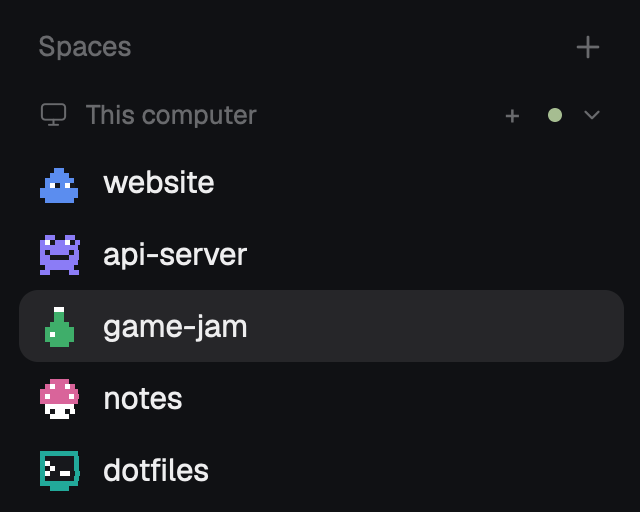
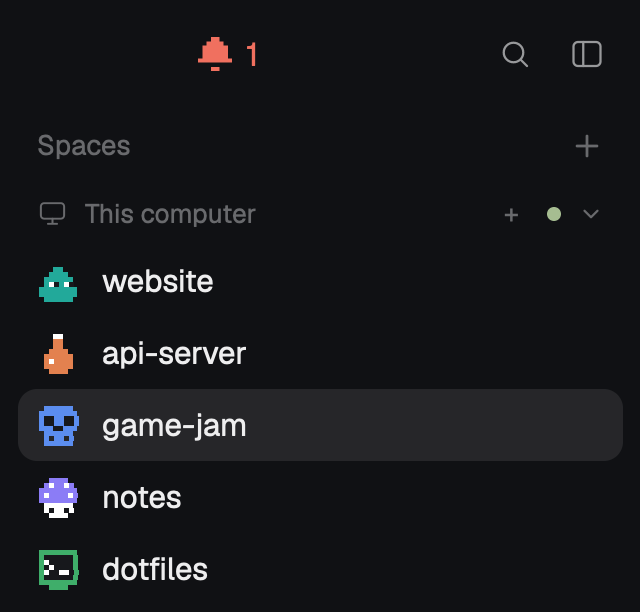
Header shows only agents waiting for you (pixel-chrome); README and RECIPE rewritten

diff --git a/mods/pixel-chrome/main.js b/mods/pixel-chrome/main.js
@@ -1,0 +1,73 @@
+// pixel-chrome: Herdr's shipped `workspace-chrome` mod (0.1.11, Apache-2.0), changed so the
+// sidebar's header shows, in place of Herdr's logo and name, only whether agents wait for you
+// (a pixel bell and how many), and its search button opens pixel-picker. The footer is Herdr's.
+// Glyphs search/sidebar/settings/plus are Lucide (ISC, LICENSE-Lucide.txt); bell.svg is new.
+
+import { View, div, image, svg } from "gpui-kit";
+import { h_flex, v_flex } from "gpui-base";
+import { theme, run, props, window, shared, setShared, updates, layout, agents } from "herdr";
+
+function find(node, id) {
+  if (node?.id === id) return node;
+  for (const child of node?.children ?? []) {
+    const found = find(child, id);
+    if (found) return found;
+  }
+  return null;
+}
+
+// The sidebar's rail goes by its width, not a flag: dragging its edge narrows it too.
+const narrow = () => (find(layout(), "sidebar")?.size?.px ?? Infinity) < 160;
+
+// To the rail (on macOS wide enough for the traffic lights), or back to the width it had.
+function toggleSidebar() {
+  const width = find(layout(), "sidebar")?.size?.px;
+  if (!narrow()) setShared("sidebar.width", width);
+  // Mods edited before the rail went by width still read the flag.
+  setShared("sidebar.collapsed", !narrow());
+  run("layout.resize", { id: "sidebar", px: narrow() ? (shared("sidebar.width") ?? 268) : window()?.platform === "macos" ? 76 : 44 });
+}
+
+export default class WorkspaceChrome extends View {
+  button(id, label, action) {
+    const t = theme();
+    return div().id(id).size(26).flex_none().flex().items_center().justify_center().rounded(6).text_color(t.muted).hover(s => s.bg(t.hover).text_color(t.foreground))
+      .on_mouse_down("left", (_e, cx) => cx.stop_propagation()).on_click(action).child(label);
+  }
+  waiting(t) {
+    const list = agents().filter(a => a.status === "blocked" || a.status === "done");
+    if (!list.length) return div();
+    const rank = a => (a.status === "blocked" ? 0 : 1);
+    const first = [...list].sort((a, b) => rank(a) - rank(b) || b.seq - a.seq)[0];
+    const tone = list.some(a => a.status === "blocked") ? t.blocked : t.done;
+    return h_flex().id("waiting").h(24).px(7).gap(6).flex_none().items_center().rounded(6).cursor_pointer()
+      .text_color(tone).hover(s => s.bg(t.hover))
+      .on_mouse_down("left", (_e, cx) => cx.stop_propagation())
+      .on_click(() => run("pane.focus", { pane: first.pane }))
+      .child(svg("mods/pixel-chrome/bell.svg").size(14).flex_none())
+      .child(div().font_semibold().child(String(list.length)));
+  }
+  render() {
+    const t = theme();
+    const collapsed = narrow();
+    if (props()?.footer) {
+      const row = (id, icon, label, dim, action) => h_flex().id(id).h(28).px(8).gap(9).items_center().rounded(8)
+        .text_color(dim ? t.dim : t.muted).hover(s => s.bg(t.hover).text_color(t.foreground)).cursor_pointer()
+        .on_click(action).child(svg(`mods/pixel-chrome/${icon}.svg`).size(14))
+        .when(!collapsed, el => el.child(label));
+      return v_flex().size_full().bg(t.chrome).border_t(1).border_color(t.border).px(8).pt(4).pb(8).text_size(13)
+        .child(row("settings", "settings", "Settings", false, () => run("app.settings"))
+          .when(Boolean(updates().app.ready), el => el.child(div().size(6).rounded_full().bg(t.accent))))
+        .child(row("machine", "plus", "Add machine", true, () => run("mod.open", { name: "machine-add" })));
+    }
+    return h_flex().size_full().bg(t.chrome).pl(collapsed ? 6 : 14).pr(10).gap(4).items_center().text_size(13.5)
+      .when(window()?.platform === "macos" && !collapsed, el => el.pl(76))
+      // pixel-chrome: in place of Herdr's logo and name, only whether agents wait for you
+      // (blocked, or done while you weren't looking): a pixel bell and how many, nothing when
+      // none. A click shows the most urgent one. Search opens pixel-picker.
+      .when(!collapsed, el => el.child(h_flex().flex_1().items_center().child(this.waiting(t))))
+      .when(!collapsed, el => el.child(this.button("search", svg("mods/pixel-chrome/search.svg").size(15), () => run("mod.open", { name: "pixel-picker" }))))
+      // On the macOS rail the traffic lights fill the row; the agents list's » unfolds it.
+      .when(!(collapsed && window()?.platform === "macos"), el => el.child(this.button("sidebar-toggle", svg("mods/pixel-chrome/sidebar.svg").size(15), toggleSidebar)));
+  }
+}

diff --git a/RECIPE.md b/RECIPE.md
@@ -1,76 +1,95 @@
 # Pixel Spaces
 
-Herdr's spaces list with pixel-art avatars. Each space wears a small 8×8 sprite, a slime, a ghost,
-a frog, drawn in the space's own color where Herdr shows a tile with the first letter. Everything
-else about the list is Herdr's.
+Herdr's sidebar in pixel art. Each space wears a small 8×8 sprite in its own color where Herdr
+shows a tile with the first letter, the Go to picker shows the same sprites, and the header keeps
+only a pixel bell that counts the agents waiting for you. Everything else is Herdr's.
 
 ![Pixel Spaces](preview.png)
 
 ## What you see
 
-- The spaces sidebar exactly as in Herdr's `main` layout: a "Spaces" header with a `+`, a group
-  header per machine, one row per space (30px, 28px for worktree rows), the space's name, then its
-  repo, branch and ahead/behind where unusual.
-- In place of the 18px rounded tile with a white capital letter: an 18px box holding a 16×16
-  sprite, 8×8 sprite pixels at 2px each, no tile behind it.
-- Sprite colors: `x` pixels in the space's avatar color (Herdr's `MARK` table: `ansi6` #22a99a,
-  `ansi3` #e3814f, `ansi4` #5b8def, `ansi5` #8b7cf6, `ansi2` #3fae6a, `ansi1` #d9649a), `o` pixels
-  #ffffff, `k` pixels #17181c, `.` clear.
+- **Header** (block `brand`, 46px): on macOS 76px left for the traffic lights, then, only when
+  agents wait, a 24px-high pill: a 14px pixel bell and the count in semibold 13.5px. Pill color is
+  the theme's `done` color when every waiting agent is done, its `blocked` color when any is
+  blocked. With nothing waiting the spot is empty. Herdr's logo and the word "Herdr" are gone.
+  Right of it, Herdr's search and sidebar buttons.
+- **Spaces list**: exactly as in Herdr's `main`: a "Spaces" header with `+`, a group header per
+  machine, one row per space (30px, 28px for worktree rows), the name, then repo, branch and
+  ahead/behind where unusual. In place of the 18px rounded tile with a white capital letter: an
+  18px box holding a 16×16 sprite, 8×8 sprite pixels at 2px each, no tile behind it.
+- Sprite colors: `x` pixels in the space's avatar color (a stored `#rrggbb`, or Herdr's `MARK`
+  table: `ansi6` #22a99a, `ansi3` #e3814f, `ansi4` #5b8def, `ansi5` #8b7cf6, `ansi2` #3fae6a,
+  `ansi1` #d9649a), `o` pixels #ffffff, `k` pixels #17181c, `.` clear.
 - 15 sprites: slime, ghost, cat, robot, mushroom, octopus, skull, heart, potion, frog, rocket,
   terminal (a `>_` prompt), coffee, bomb, star. All original drawings.
 - Worktree rows keep Herdr's branch icon and no sprite; the narrow rail keeps Herdr's number and
-  status glyph.
-- The Go to picker (`cmd-p`) shows the same sprite, same color, in each space's heading row in
-  place of the 18px letter tile.
+  status glyph and hides the bell.
+- **Go to picker** (`cmd-p` and the header's search button): each space's heading row shows its
+  sprite, same color, in place of the 18px letter tile.
 
 ## How it behaves
 
+- Waiting means an agent's status is `blocked` or `done` (finished while you weren't looking;
+  Herdr turns it `idle` once you look). The count is over every agent the window knows.
+- Clicking the bell runs `pane.focus` on the most urgent waiting agent: blocked before done, then
+  the highest `seq` (most recent change). The press doesn't reach the header behind it.
 - A space without a sprite gets the one used least among the shown spaces; ties are broken by a
-  hash of the space's name, so two new spaces rarely start alike. Once given, a sprite stays.
+  hash of the space's name. Once given, a sprite stays.
 - Option-click (Alt) on a sprite steps that space to the next sprite in the list, wrapping
-  around, and the click does not select the space. Any other click, right-click and drag behave
-  as in Herdr's list.
+  around, and the click does not select the space. Other clicks, right-click and drag behave as
+  in Herdr's list.
 - Sprites of spaces that are gone are dropped, as Herdr drops their colors.
-- When the mod sees no spaces at all (as under `herdr-app check`), it changes neither colors nor
+- When a mod sees no spaces at all (as under `herdr-app check`), it changes neither colors nor
   sprites.
 
 ## Built from
 
-- Layout `layouts/main-pixel.json`: Herdr's `main` (0.1.11), cloned with `layout.clone`, with the
-  block `id: "spaces"` set to `content.mod: "pixel-spaces"`.
-- Mod `mods/pixel-spaces/`: Herdr's `spaces` mod cloned with `mod.clone`. Changes in `main.js`:
-  the avatar `h_flex` in `row()` holds `sprite(name, fill, ...)` with an `on_mouse_down("left")`
-  that, when `e.modifiers.alt`, calls `cx.stop_propagation()` and writes the next name to shared
-  `space.sprites`; `render()` assigns sprites with `assign()` after the colors, and wraps both the
-  color and the sprite bookkeeping in `if (spaces().length)`.
+- Layout `layouts/main-pixel.json`: Herdr's `main` (0.1.11), cloned with `layout.clone`, with
+  block `brand` set to `content.mod: "pixel-chrome"` and block `spaces` to
+  `content.mod: "pixel-spaces"`. The footer block stays Herdr's `workspace-chrome`.
+- `mods/pixel-chrome/`: Herdr's `workspace-chrome` cloned with `mod.clone`. `render()`'s header
+  row has `waiting(t)` where the logo `image` and "Herdr" text were; `waiting` reads `agents()`,
+  filters `blocked`/`done`, and returns an empty `div` or the pill (`svg("mods/pixel-chrome/
+  bell.svg")` tinted by `text_color`, `on_mouse_down` stopping propagation, `on_click` →
+  `run("pane.focus", { pane })`). The search button runs `mod.open { name: "pixel-picker" }`. It
+  keeps only the glyphs it uses: `bell.svg` (new, 8×8 rects), Lucide `search`, `sidebar`,
+  `settings`, `plus`.
+- `mods/pixel-spaces/`: Herdr's `spaces` cloned. The avatar `h_flex` in `row()` holds
+  `sprite(name, fill, ...)` with an `on_mouse_down("left")` that, when `e.modifiers.alt`, calls
+  `cx.stop_propagation()` and writes the next name to shared `space.sprites`; `render()` assigns
+  sprites with `assign()` after the colors, both inside `if (spaces().length)`.
 - `sprites.js`: `SPRITES` (name to 8 strings of 8 chars), `NAMES`, `sprite()` (each row's runs of
   one character become one `div` of width `2 * run`, height 2), `assign()`.
-- Mod `mods/pixel-picker/`: Herdr's `picker` cloned with `mod.clone`. The heading row's avatar
-  holds `sprite(shared("space.sprites")[id], spaceColor(t, w), ...)`; `spaceColors()` returns the
-  stored colors untouched when `spaces()` is empty. It only reads `space.sprites`. Its own copy of
+- `mods/pixel-picker/`: Herdr's `picker` cloned. The heading row's avatar holds
+  `sprite(shared("space.sprites")[id], spaceColor(t, w), ...)`; `spaceColors()` returns the stored
+  colors untouched when `spaces()` is empty. It only reads `space.sprites`. Its own copy of
   `sprites.js`. `keys.json`: `"cmd-p": "mod.open:pixel-picker"` in `global`.
-- `herdr` functions: `spaces`, `shared`, `setShared`, `theme`, plus everything Herdr's mod uses.
-  No programs, no network, no files outside the mod.
+- `herdr` functions: `agents`, `spaces`, `shared`, `setShared`, `theme`, `run`, plus everything
+  Herdr's mods use. No programs, no network, no files outside the mods.
 
 ## Watch out
 
-- `herdr-app check` runs the mod with no spaces against the real shared state. Herdr's own
+- `herdr-app check` runs a mod with no spaces against the real shared state. Herdr's own
   bookkeeping drops every entry whose space isn't listed, so a check run would wipe
-  `space.colors` and `space.sprites`. Keep the `if (spaces().length)` guard.
+  `space.colors` and `space.sprites`. Keep the `spaces().length` guards in both mods.
+- Herdr caches images by path: a changed SVG under the same name kept showing the old picture.
+  Save a changed glyph under a new name.
 - Option is Alt only where Herdr sends it as Alt (`option_as_alt`, "auto" on US/ABC layouts). On
-  other keyboard layouts, set `"option_as_alt": "on"` in settings.json for option-click.
+  other keyboard layouts set `"option_as_alt": "on"` in settings.json for option-click.
 - Herdr doesn't watch a symlinked mod folder; copy it rather than link it.
 - A mod can't import from another mod's folder (`../pixel-spaces/sprites.js` is refused as
   outside the mod), so each mod carries `sprites.js`; keep the copies identical.
-- The sidebar's search button (shipped `workspace-chrome`) opens the shipped `picker`, not this
-  one.
 - Sprites must be exactly 8×8 and use only `.`, `x`, `o`, `k`.
+- To see the bell without a real agent waiting, a terminal can report a status itself:
+  `printf '\033]7501;state=blocked:app=demo\007'`.
 
 ## Done when
 
+- The header shows nothing while no agent is blocked or done, and a bell with the right count
+  otherwise, in the blocked color when any is blocked; clicking it shows that agent.
 - Every non-worktree space row shows a sprite in its color and no letter tile.
 - A new space gets a sprite not yet used by the shown spaces (while fewer than 15 spaces show).
 - Option-click on a sprite changes it to the next one and leaves the selected space as it was.
-- `herdr-app check mods/pixel-spaces` and `herdr-app check mods/pixel-picker` pass and leave
-  `space.colors` and `space.sprites` in `shared.json` unchanged.
-- `cmd-p` opens the picker with each space's sprite beside its name, matching the sidebar.
+- `cmd-p` and the search button open the picker with each space's sprite beside its name.
+- `herdr-app check` passes for all three mods and leaves `space.colors` and `space.sprites` in
+  `shared.json` unchanged.

diff --git a/README.md b/README.md
@@ -1,21 +1,29 @@
 # Herdr Pixel Spaces
 
-Pixel-art avatars for the spaces list of the [Herdr](https://herdr.dev) desktop app. Instead of a
-colored tile with the space's first letter, each space gets a little 8×8 sprite in its color: a
-slime, a ghost, a frog, a potion...
+A pixel-art sidebar for the [Herdr](https://herdr.dev) desktop app. Each space wears a little 8×8
+sprite in its color instead of a letter tile, the Go to picker shows the same sprites, and the
+sidebar's header drops Herdr's logo for the one thing worth seeing up there: whether an agent is
+waiting for you.
 
-![Pixel sprites in the spaces list](preview.png)
+![The sidebar: a red bell for one agent waiting, and pixel sprites for each space](preview.png)
 
-- **15 sprites.** slime, ghost, cat, robot, mushroom, octopus, skull, heart, potion, frog, rocket,
-  terminal, coffee, bomb and star. All drawn for this mod, not taken from any game.
-- **One per space, kept.** A new space gets the sprite used least so far, and keeps it.
-- **Your pick.** Option-click (Alt-click) a sprite to step to the next one. A plain click still
-  opens the space.
-- **Still Herdr's spaces list.** It's Herdr's own `spaces` mod with only the avatar changed:
-  colors, worktrees under their repo, branch and ahead/behind, a group per machine, the
-  right-click menu and drag to reorder all work as before.
-- **In the Go to picker too.** `pixel-picker` is Herdr's `picker` (`cmd-p`) with the same
-  sprites next to each space's name.
+## What you get
+
+- **Pixel sprites for spaces.** 15 sprites: slime, ghost, cat, robot, mushroom, octopus, skull,
+  heart, potion, frog, rocket, terminal, coffee, bomb and star, all drawn for this repo. A new
+  space gets the sprite used least so far and keeps it. **Option-click** (Alt-click) a sprite to
+  step to the next one; a plain click still opens the space.
+- **The same sprites in the Go to picker** (`cmd-p`, and the sidebar's search button), next to
+  each space's name.
+- **A header that only says who's waiting.** Where Herdr shows its logo and name, a pixel bell
+  and a count appear when agents wait for you: blocked on a question or a permission, or done
+  while you weren't looking. Blue when they're only done, the blocked color when any is blocked,
+  nothing at all when none wait. Click it to go to the most urgent one (blocked first, then the
+  most recently finished).
+- **Still Herdr's sidebar.** These are Herdr's own `spaces`, `picker` and `workspace-chrome` mods
+  with only those parts changed: space colors, worktrees under their repo, branch and
+  ahead/behind, a group per machine, the right-click menu, drag to reorder, picker search and
+  keys all work as before.
 
 ![All 15 sprites](sprites.png)
 
@@ -25,28 +33,32 @@ Ask your agent: "add https://github.com/pilmokim/herdr-pixel-spaces to my Herdr 
 
 ```sh
 git clone https://github.com/pilmokim/herdr-pixel-spaces.git
-cp -R herdr-pixel-spaces/mods/pixel-spaces herdr-pixel-spaces/mods/pixel-picker ~/.config/herdr-app/mods/
-cp herdr-pixel-spaces/layouts/main-pixel.json ~/.config/herdr-app/layouts/
+cd herdr-pixel-spaces
+cp -R mods/pixel-spaces mods/pixel-picker mods/pixel-chrome ~/.config/herdr-app/mods/
+cp layouts/main-pixel.json ~/.config/herdr-app/layouts/
 herdr-app do layout.switch '{"name":"main-pixel"}'
 ```
 
-`main-pixel` is Herdr's own `main` layout (0.1.11) with the spaces list swapped for this one.
-`cmd-shift-l` switches back to any other layout.
+`main-pixel` is Herdr's own `main` layout (0.1.11) with the header and the spaces list swapped
+for these mods. `cmd-shift-l` switches back to any other layout.
 
-For the picker, point `cmd-p` at it in `~/.config/herdr-app/keys.json` (this repo's `keys.json`
-has the line to merge):
+Then point `cmd-p` at the pixel picker in `~/.config/herdr-app/keys.json` (this repo's
+`keys.json` has the line to merge):
 
 ```json
 { "global": { "cmd-p": "mod.open:pixel-picker" } }
 ```
 
-The sidebar's search button still opens Herdr's own picker.
+Option-click needs Option to reach Herdr as Alt. That's automatic on US and ABC keyboard layouts;
+on others (Korean 2-Set, for one) add `"option_as_alt": "on"` to
+`~/.config/herdr-app/settings.json`.
 
 ### Your own layout
 
-In a layout of your own, point the spaces block at this mod:
+In a layout of your own, point its blocks at these mods:
 
 ```json
+{ "id": "brand", "type": "block", "size": { "px": 46 }, "content": { "mod": "pixel-chrome" } },
 { "id": "spaces", "type": "block", "size": { "weight": 1 }, "min": 90, "content": { "mod": "pixel-spaces" } }
 ```
 
@@ -74,12 +86,13 @@ a copy of the same file (a Herdr mod can't import from another mod's folder): ch
 ## How it's kept
 
 Each space's sprite is stored by space id in Herdr's shared mod state (`space.sprites`), next to
-the colors Herdr already keeps there (`space.colors`). Unlike the shipped mods, these two leave
-both alone when they see no spaces at all, so a `herdr-app check` run doesn't wipe everyone's
-colors.
+the colors Herdr already keeps there (`space.colors`). A color there can be a `#rrggbb` as well
+as one of Herdr's six. Unlike the shipped mods, these leave both alone when they see no spaces
+at all, so a `herdr-app check` run doesn't wipe everyone's colors.
 
 ## License
 
-Apache-2.0. `mods/pixel-spaces/main.js` and `mods/pixel-picker/main.js` are Herdr's `spaces` and
-`picker` mods (Apache-2.0) with the avatar changed, as their headers say; `sprites.js` and the
-sprites are new.
+Apache-2.0. The three mods' `main.js` files are Herdr's `spaces`, `picker` and
+`workspace-chrome` mods (Apache-2.0) with the changes their headers describe. The `search`,
+`sidebar`, `settings` and `plus` glyphs in `mods/pixel-chrome/` are Lucide's (ISC, see
+`mods/pixel-chrome/LICENSE-Lucide.txt`). `sprites.js`, the sprites and the bell are new.
